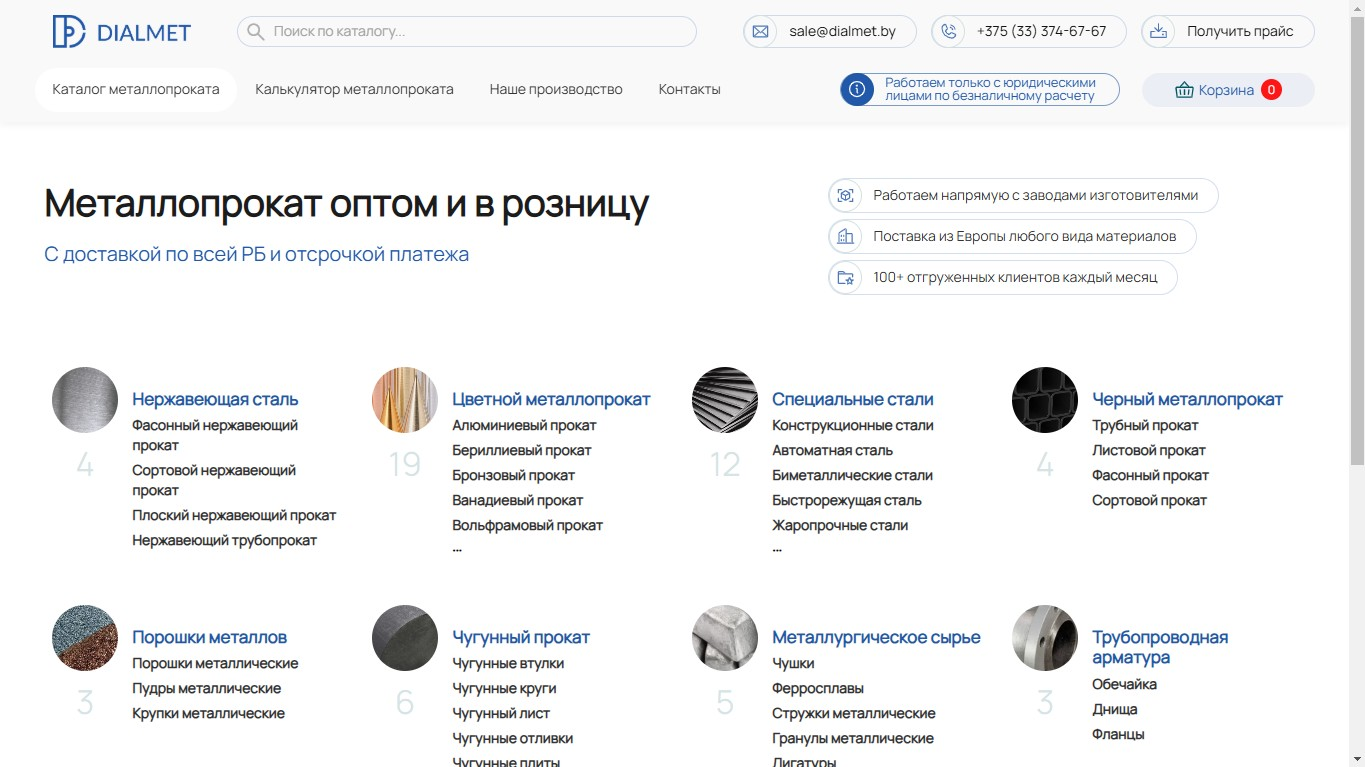
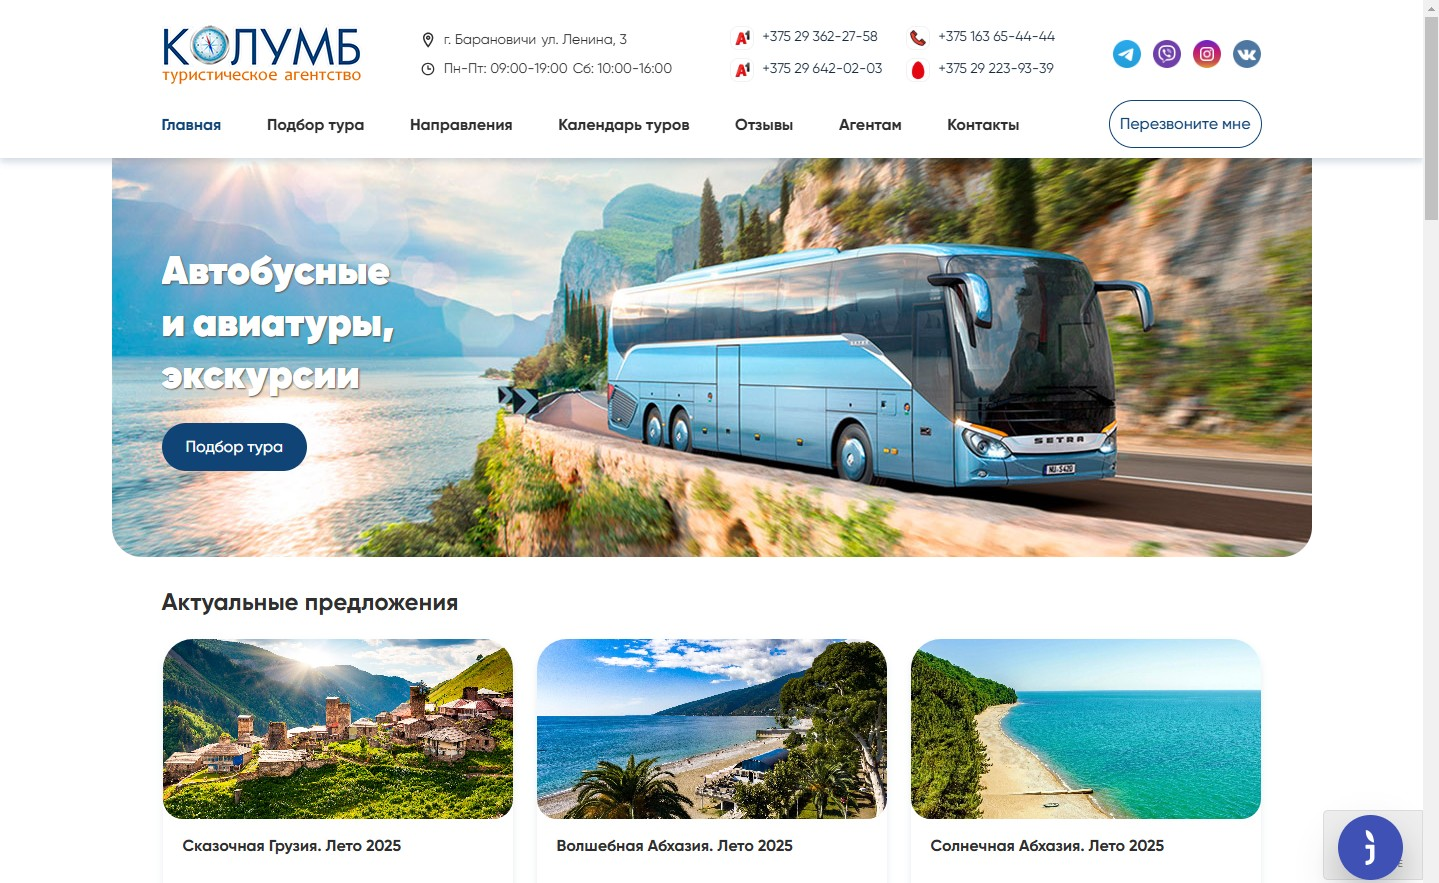
init: add project kolumb

diff --git a/README.md b/README.md
@@ -1,35 +1,23 @@
-# Dialmet
+# Kolumb
 
-[dmet.by](https://dmet.by/)
+[kolumb.by](https://kolumb.by/)
 
-**Stack:** CMS ModX, MiniShop2, HTML, CSS, SCSS, PUG, JavaScript, PHP, Fenom, Google Sheets API, Telegram API, Figma  
-**ModX Packages:** Minishop2, ClientConfig, Console, FetchIt, MIGX, msaddfield, mSearch2, msMCD, pdoTools, Translitor, mFilter2  
+**Stack:** CMS ModX, HTML, CSS, JavaScript, PHP  
 
 **Project Description:**
-Site catalog of rolled metal products with advanced filtering system, import of goods from various sources.  
+Development and customization of a travel agency website based on a copy of another project. Improvement of functionality, layout edits and improvement of SEO settings.  
 
 **My role:**  
-- Adaptive and mobile responsive website design based on Figma layout
-- Hosting and domain setup  
-- Designing site structure in ModX  
-- MiniShop2 setup and customization (cart, orders, mini-cart)  
-- Importing goods from CSV and Google Sheets  
-- Generation of virtual goods when clicking on the “Add” button
-- Implementation of dependent and independent filters  
-- Regeneration of URI of all products  
-- Parsing product data from source sites into Google Sheets  
-- Duplication of requests from forms to Telegram-bot
-- Notifications about MiniShop2 orders in Telegram-bot
-- Recording video tutorials on importing products and catalog management  
-- Protect forms from spam  
+- Transferring a copy of the site to a new hosting and customizing it  
+- Customization and refinement of feedback forms  
+- Changing the layout and edits to the site content
+- Changing the layout of the cookie pop-up window
+- Improvement of tours functionality: possibility to include a tour in several destinations  
+- Adding SEO fields in the admin and displaying them on the site pages  
 
 **Key Features:**  
-- Flexible filtering system
-- Support for importing products from various sources (CSV, Google Sheets)  
-- Generation and management of virtual products  
-- Interactive modal windows with additional functions  
-- Sending orders and requests to Telegram-bot  
-- Site search
+- Adaptive and mobile-friendly layout
+- Convenient work with tours in the admin area
 
 ## Desktop
 ![desktop](desktop.jpg)
